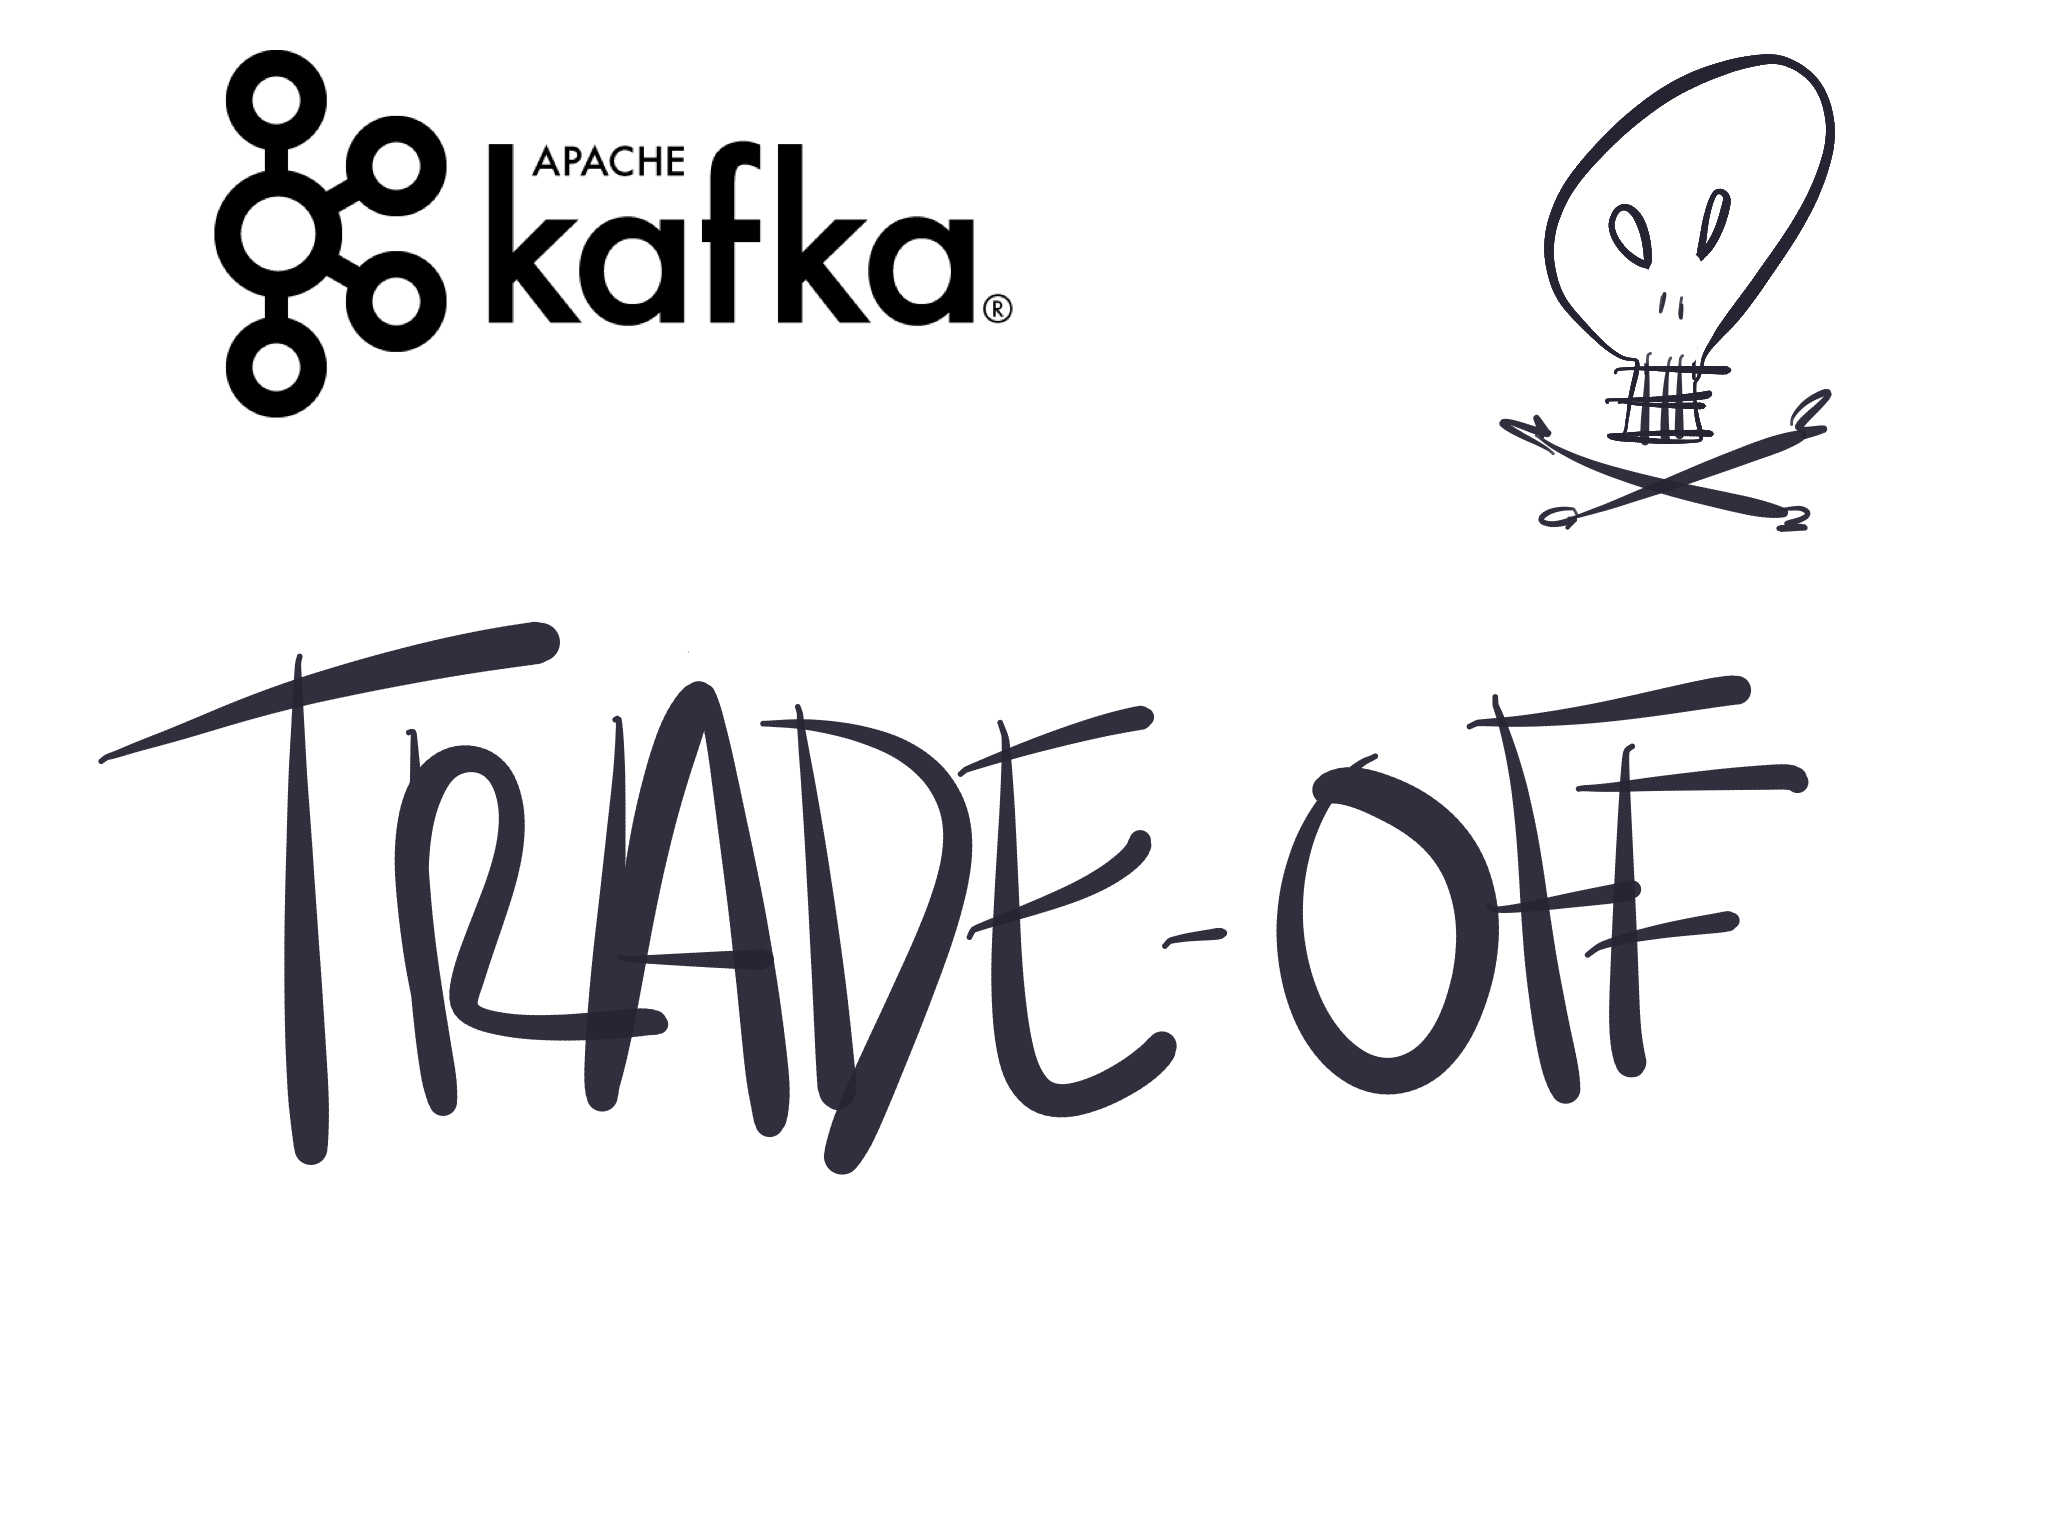
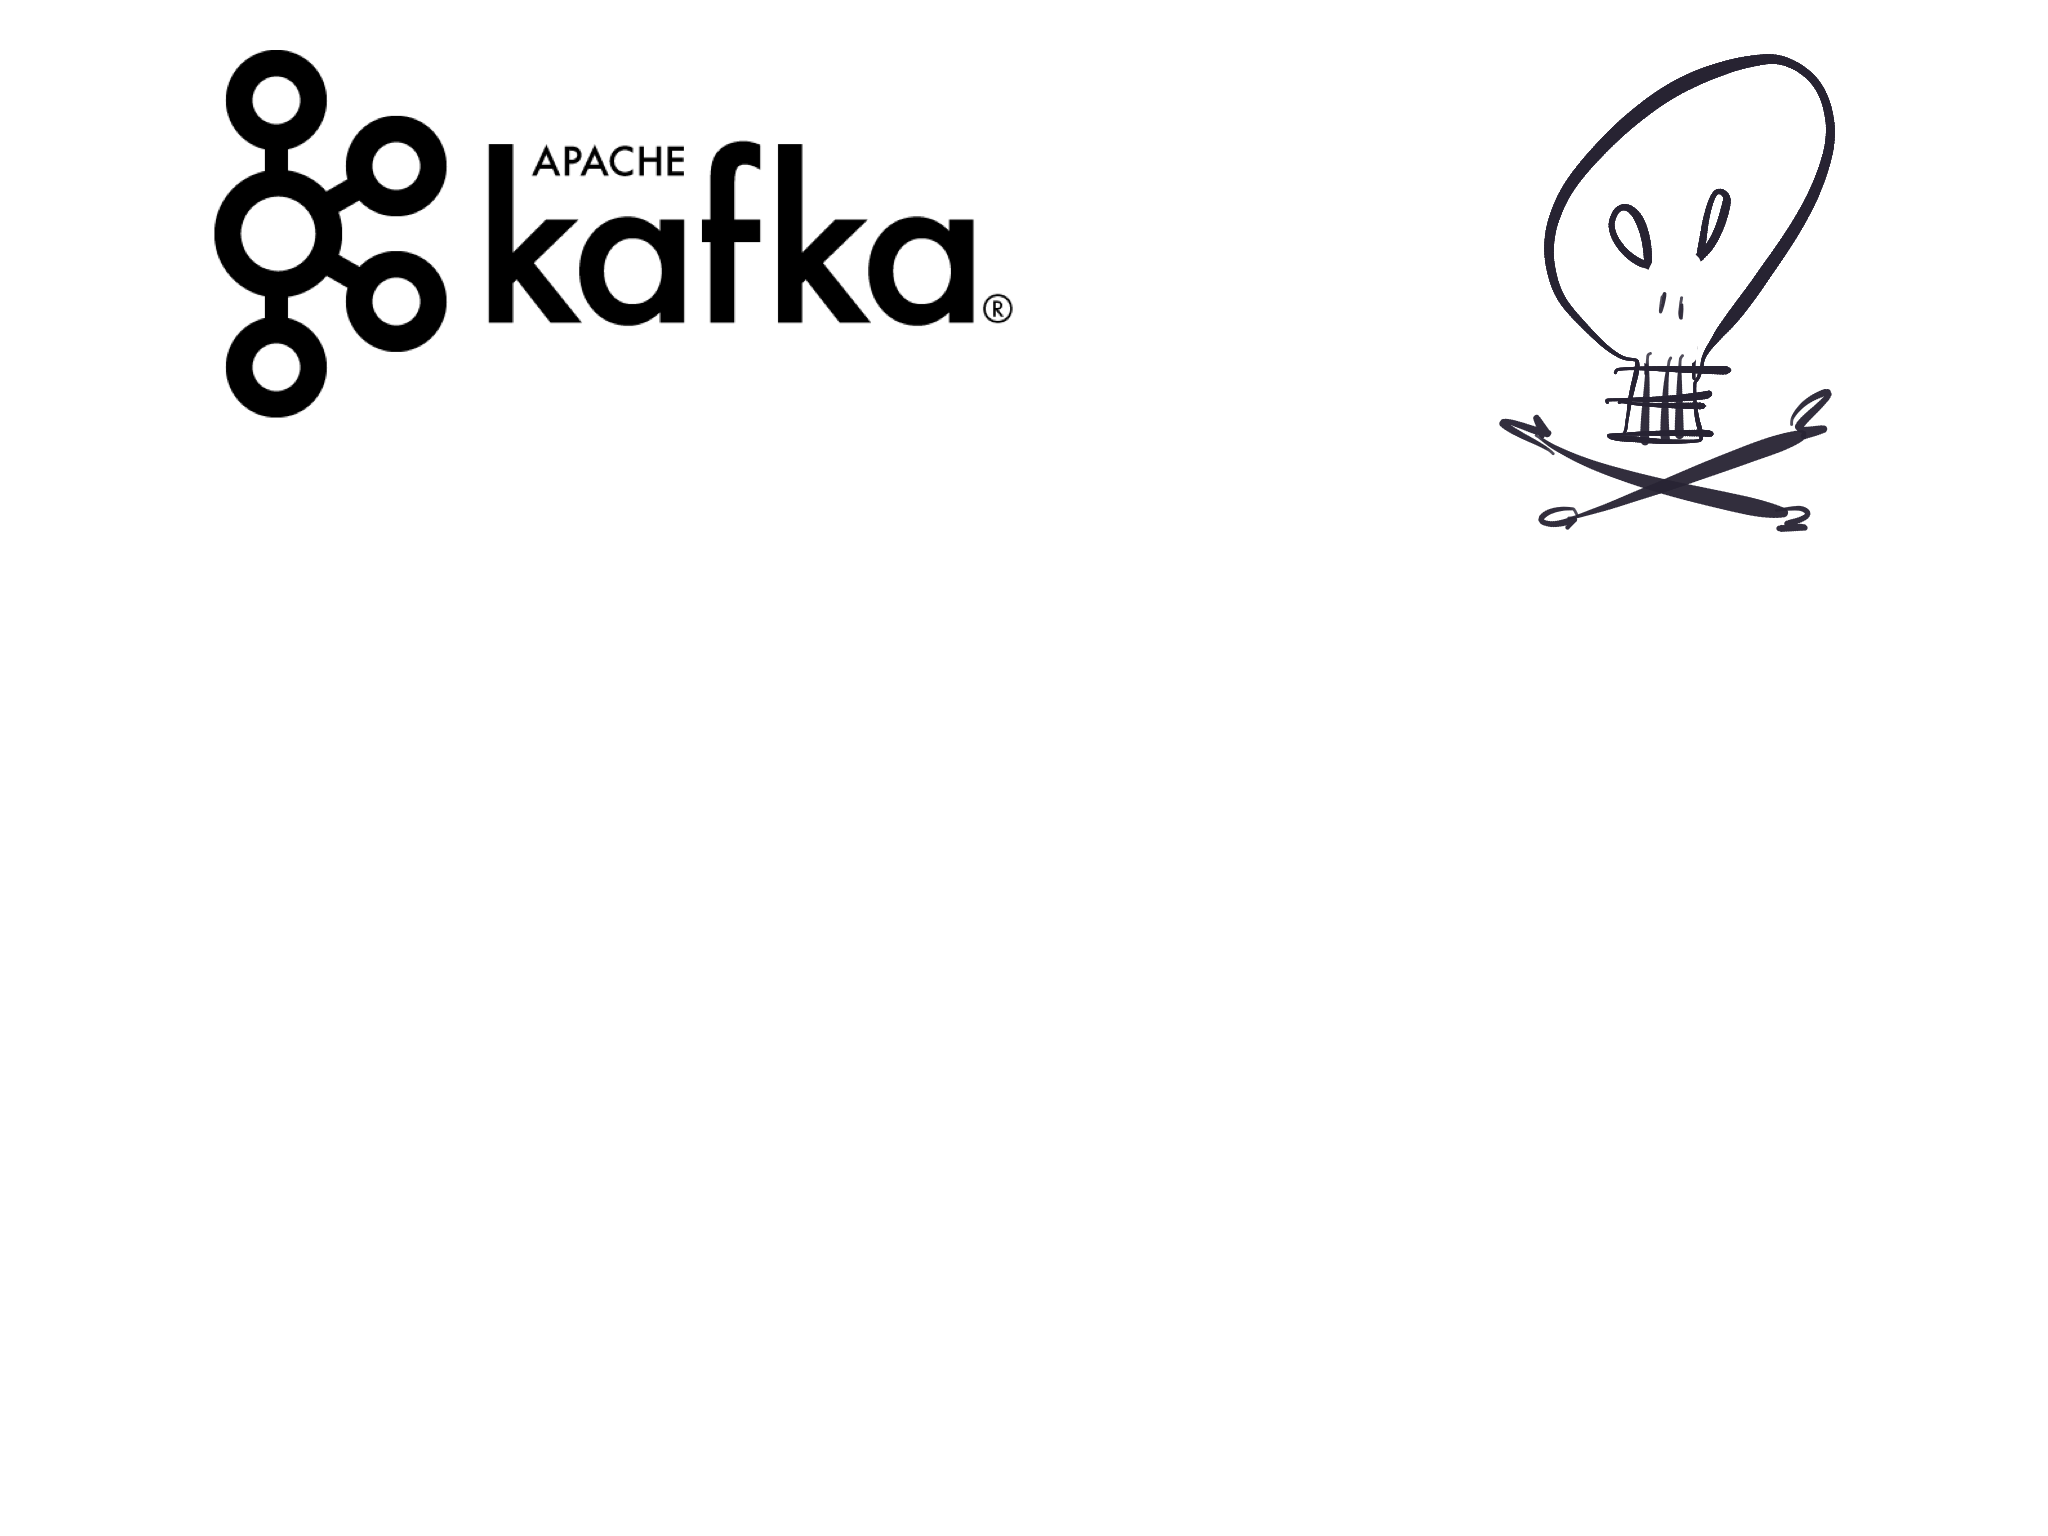
trade-offs

Changed region(s): [[0.0625, 0.4062, 0.5938, 0.7812], [0.625, 0.4375, 0.9062, 0.7188], [0.5625, 0.5938, 0.5938, 0.625]]

diff --git a/index.html b/index.html
@@ -147,7 +147,8 @@
         <section data-background="img/idea-big.png" data-background-size="contain">
         </section>
 
-        <section data-background="img/idea.png" data-background-size="contain" data-markdown>
+        <section data-background="img/idea.png" data-background-size="contain" data-markdown
+                 data-separator-notes="^Note:" style="padding-top: 150px;">
             <textarea data-template>
                 # High Availability
 
@@ -155,31 +156,56 @@
             </textarea>
         </section>
 
-        <section data-background="img/idea.png" data-background-size="contain" data-markdown>
+        <section data-background="img/idea.png" data-background-size="contain" data-markdown
+                 data-separator-notes="^Note:" style="padding-top: 150px;">
             <textarea data-template>
                 # Linear Scalabilty
             </textarea>
         </section>
 
-        <section data-background="img/idea.png" data-background-size="contain" data-markdown>
+        <section data-background="img/idea.png" data-background-size="contain" data-markdown
+                 data-separator-notes="^Note:" style="padding-top: 150px;">
             <textarea data-template>
                 # Near Real-Time
             </textarea>
         </section>
 
-        <section data-background="img/idea.png" data-background-size="contain" data-markdown>
+        <section data-background="img/idea.png" data-background-size="contain" data-markdown
+                 data-separator-notes="^Note:" style="padding-top: 150px;">
             <textarea data-template>
                 # Data Oriented
             </textarea>
         </section>
 
-        <section data-background="img/idea.png" data-background-size="contain" data-markdown>
+        <section data-background="img/idea.png" data-background-size="contain" data-markdown
+                 data-separator-notes="^Note:" style="padding-top: 150px;">
             <textarea data-template>
                 # Event Driven
             </textarea>
         </section>
 
-        <section data-background="img/trade-off.png" data-background-size="contain">
+        <section data-background="img/trade-off-big.png" data-background-size="contain">
+        </section>
+
+        <section data-background="img/trade-off.png" data-background-size="contain" data-markdown
+                 data-separator-notes="^Note:" style="padding-top: 150px;">
+            <textarea data-template>
+                # Operations
+            </textarea>
+        </section>
+
+        <section data-background="img/trade-off.png" data-background-size="contain" data-markdown
+                 data-separator-notes="^Note:" style="padding-top: 150px;">
+            <textarea data-template>
+                # Monitoring
+            </textarea>
+        </section>
+
+        <section data-background="img/trade-off.png" data-background-size="contain" data-markdown
+                 data-separator-notes="^Note:" style="padding-top: 150px;">
+            <textarea data-template>
+                # New Ideas
+            </textarea>
         </section>
 
         <section data-background="img/title-mb.png" data-background-size="contain" data-markdown
